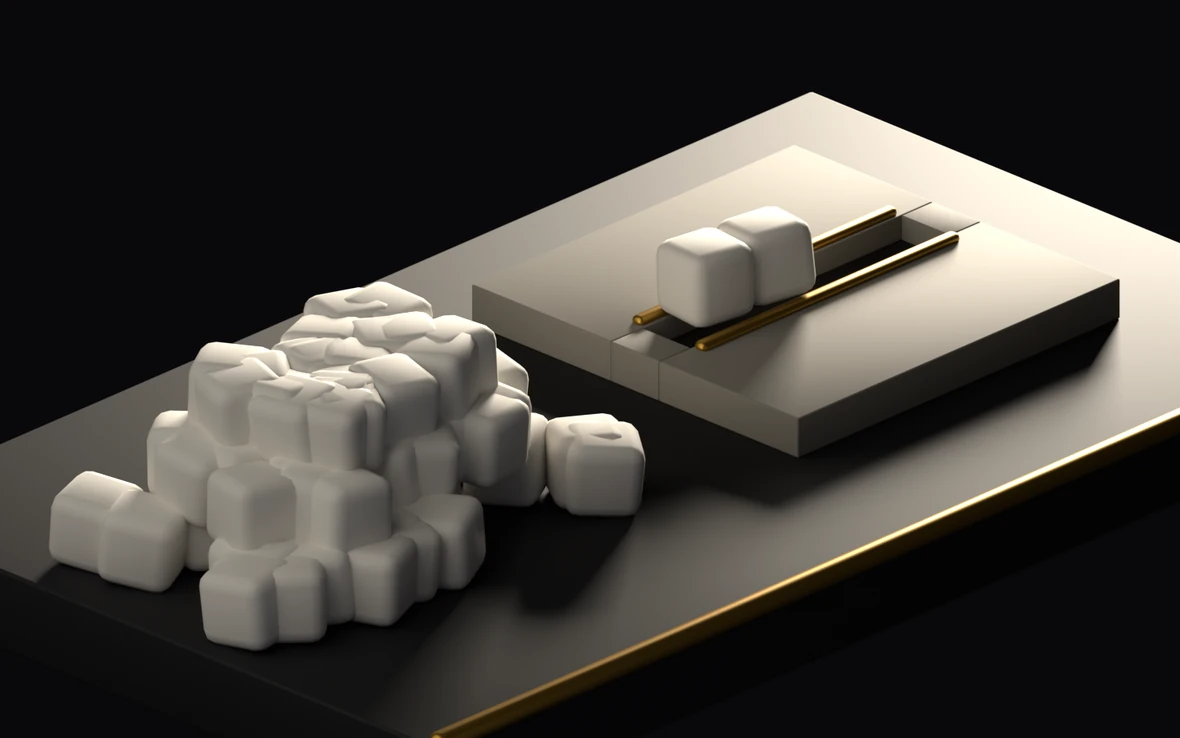
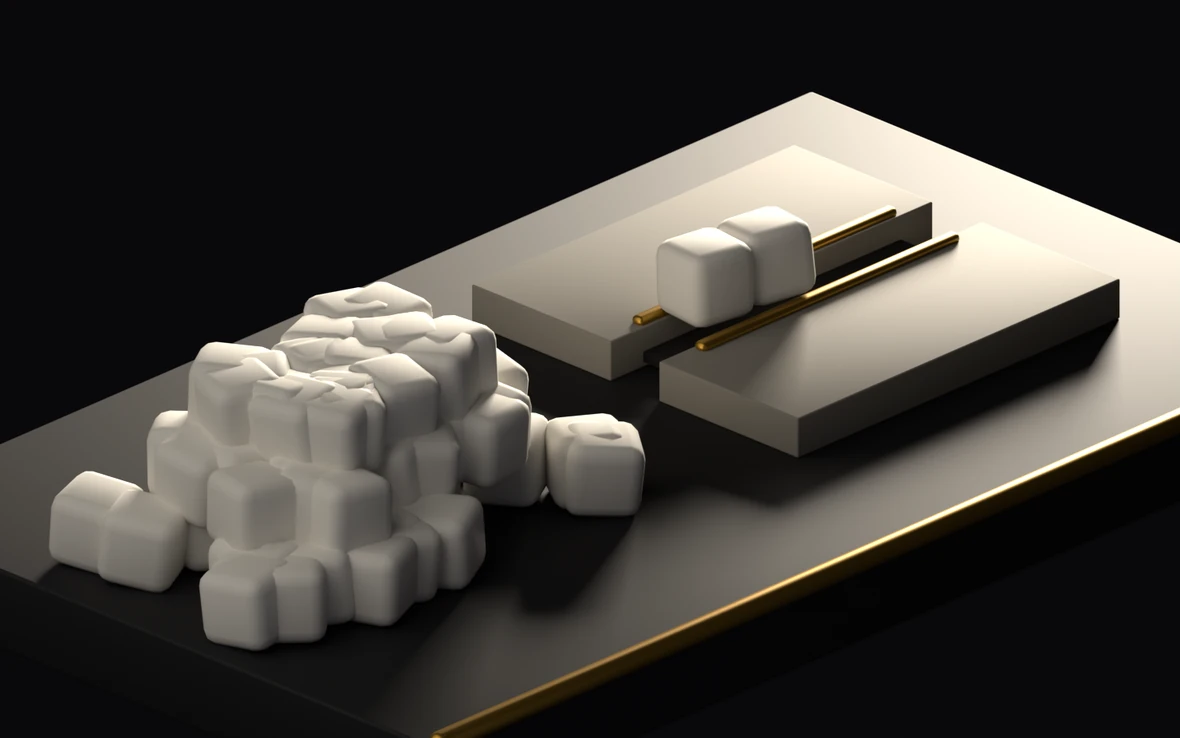
restaure(whynow): la geometrie refusee sort du panneau 2, la correction du alt reste
LE COMMIT PRECEDENT, 097e876, MELANGEAIT TROIS CHOSES ET NON DEUX. Mesure et non
suppose, git show --name-status :
    messages/fr.json + messages/en.json   la correction du alt          <- part
    public/whynow-outils-{370,590,740,1180}.webp  la geometrie refusee   <- revient
    components/WhyNow.tsx  +25 lignes de commentaire sur cette geometrie <- revient
Le troisieme n'etait pas annonce. Il affirmait « la scene rend desormais la plaque
CONTINUE [...] 40 tranches sur 200 » : avec les octets servis revenus a l'etat livre,
ce commentaire deviendrait FAUX dans du code servi, c'est-a-dire exactement le defaut
que la porte precedente avait ferme. Il est donc restaure lui aussi, et ce qu'il
disait de vrai vit desormais dans nbhc-broll, ou la geometrie vit.

POURQUOI LA GEOMETRIE NE PART PAS, ET LE MOTIF N'EST PAS TECHNIQUE. La plaque
continue atteint sa cible exactement — tranches portantes 0 / 200 -> 40 / 200,
objets porteurs de niveau 36 -> 37, donc AUCUNE regression geometrique — et 6
LECTEURS SUR 6 au test a l'aveugle lisent desormais « unsorted input becomes ordered
output », « a pipeline, a sorting process ». Le lisere dore est l'element le plus
contraste de la moitie droite ; la rainure fermee, il porte deux blocs alignes. On
avait construit le signe visuel de l'automatisation DANS le panneau dont le texte dit
qu'aucun outil ne s'adapte. Une amelioration technique qui degrade le message ne part
[…]

Changed region(s): [[0.5186, 0.4363, 0.5797, 0.561], [0.7627, 0.2805, 0.8237, 0.3428]]

diff --git a/components/WhyNow.tsx b/components/WhyNow.tsx
@@ -197,31 +197,6 @@ const SEUIL_COTE_A_COTE = 1145;
  * fendue — pour retomber sur du fond de page. C'est le plus PETIT decalage qui
  * donne du fond de page dans les deux cas : l'etiquette est aussi pres de son
  * objet que la lumiere le permet.
- *
- * ── LE `alt` DU PANNEAU 2 A DECRIT PENDANT DIX PORTES UNE GEOMETRIE INEXISTANTE ─
- *
- * Il disait « une plaque fendue d'une longue rainure bordee d'or ; deux blocs
- * reposent en travers de la fente SANS Y ENTRER ». `rendu-3d/scene_outils.py`
- * construisait DEUX BOITES PLEINES posees a 0,145 l'une de l'autre, dont le jour
- * descendait jusqu'au socle : balayage de 200 tranches en x, **0** portait de la
- * matiere d'un bord du jour a l'autre. Il n'y avait pas de plaque a fendre.
- *
- * ET CE `alt` NE VIT PAS DANS CE FICHIER, ce qui est la raison pour laquelle il a
- * survecu aux relectures de ce fichier : il est en `messages/fr.json` et
- * `messages/en.json`, clef `whyNow.panel2Alt`, et n'arrive ici que par
- * `panneaux[i].alt`. Chercher « fendue » dans `WhyNow.tsx` ne le trouvait pas.
- *
- * DEUX CORRECTIONS, ET LA SECONDE N'EST PAS UNE CORRECTION DE GEOMETRIE :
- *   1. la scene rend desormais la plaque CONTINUE (`plaque_bout_0` /
- *      `plaque_bout_1` ferment le jour aux deux bouts ; 40 tranches sur 200
- *      portent de la matiere au niveau du dessus). « Plaque » est devenu vrai.
- *   2. « SANS Y ENTRER » est retire. Ce n'est pas une description, c'est une these,
- *      et elle vaut **1,6 px** de porte-a-faux a 335 px : elle a ete vue par
- *      **0 lecteur sur 12** au test a l'aveugle. Le `alt` dit maintenant ce que la
- *      geometrie porte — les blocs sont « plus larges qu'elle », 0,17 contre
- *      0,145 — et laisse la these au TEXTE de la page, qui est ce qui la porte.
- * Le mot « fendue » plus haut dans ce commentaire, lui, decrit desormais la
- * geometrie reelle et reste donc en place.
  */
 const ETIQUETTES_LATERALES = [
   [
